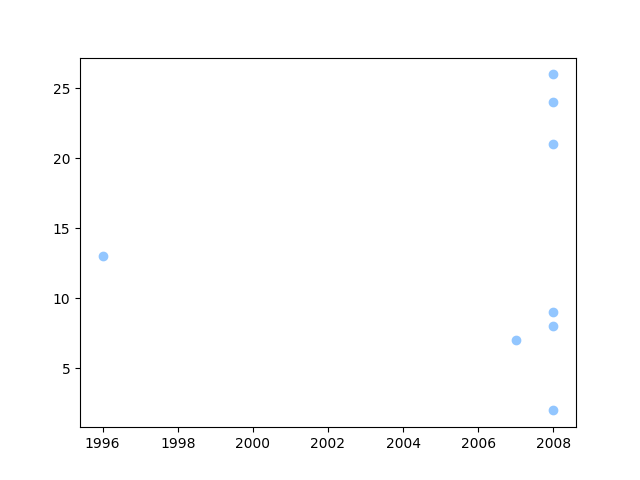
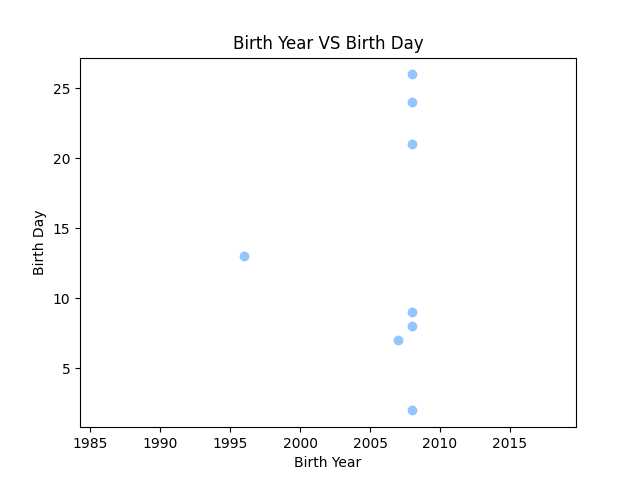
garph

diff --git a/main.py b/main.py
@@ -6,6 +6,7 @@ plt.style.use('seaborn-v0_8-pastel')
 
 
 df = pd.read_csv('ClassDataset2025 - class-dataset.csv')
+df = df.head(8)
 print(df.info())
 
 birthYear = df['Birth Year']
@@ -13,6 +14,13 @@ birthDay = df['Birth Day']
 
 plt.scatter(birthYear, birthDay)
 
+plt.title('Birth Year VS Birth Day')
+plt.xlabel('Birth Year')
+plt.ylabel('Birth Day')
+plt.axis('equal')
+
 plt.savefig('scatter.png')
 plt.close()
+
+
 
